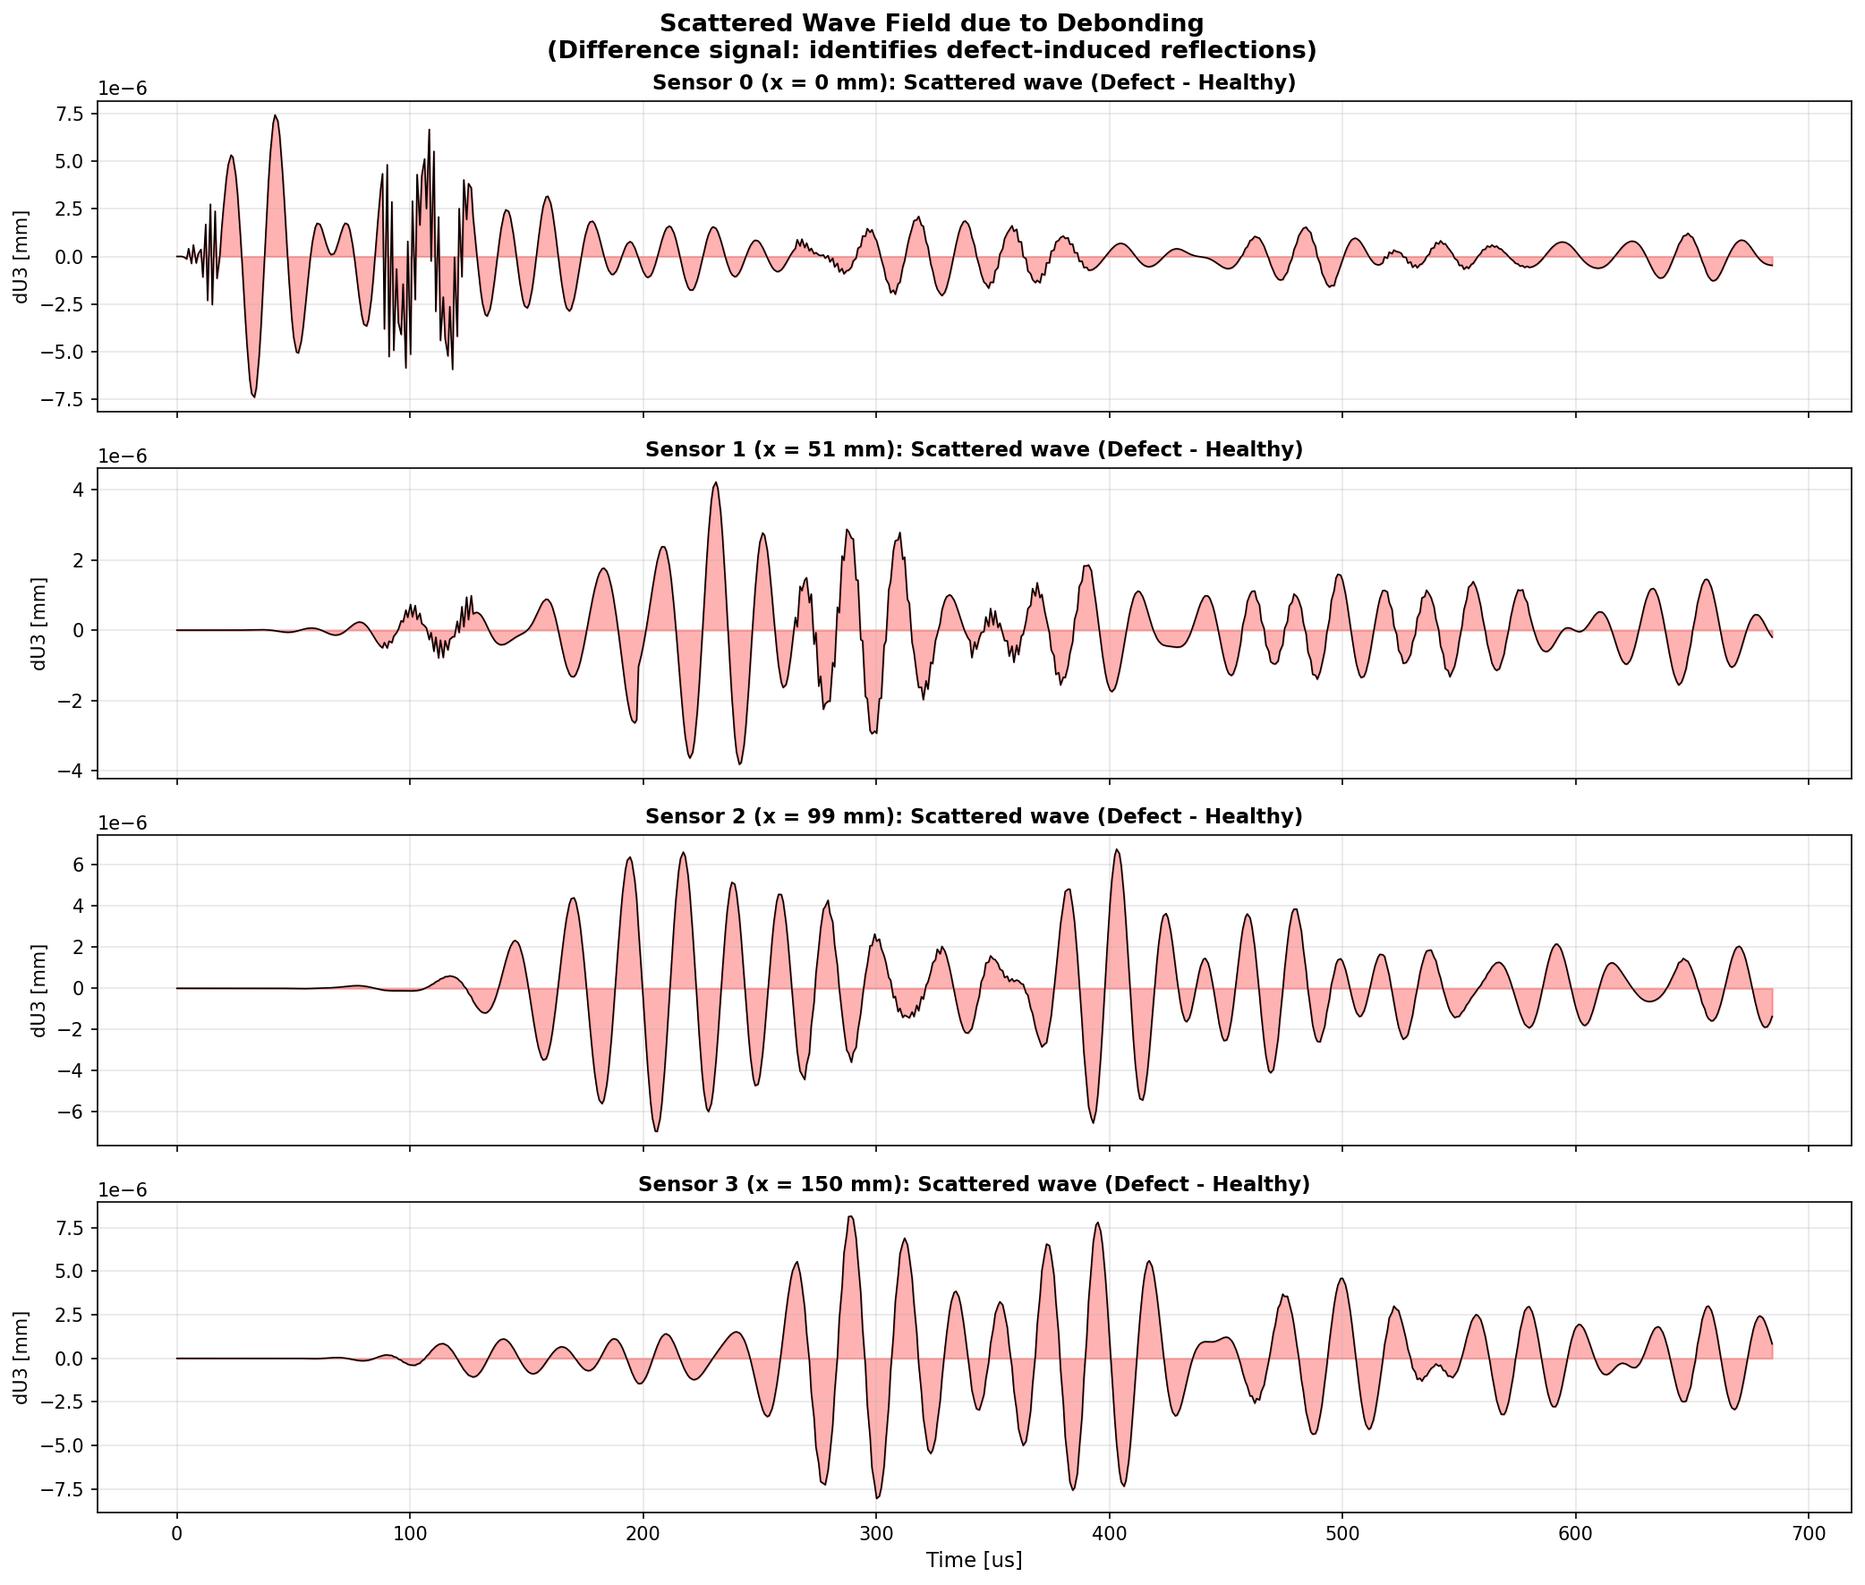
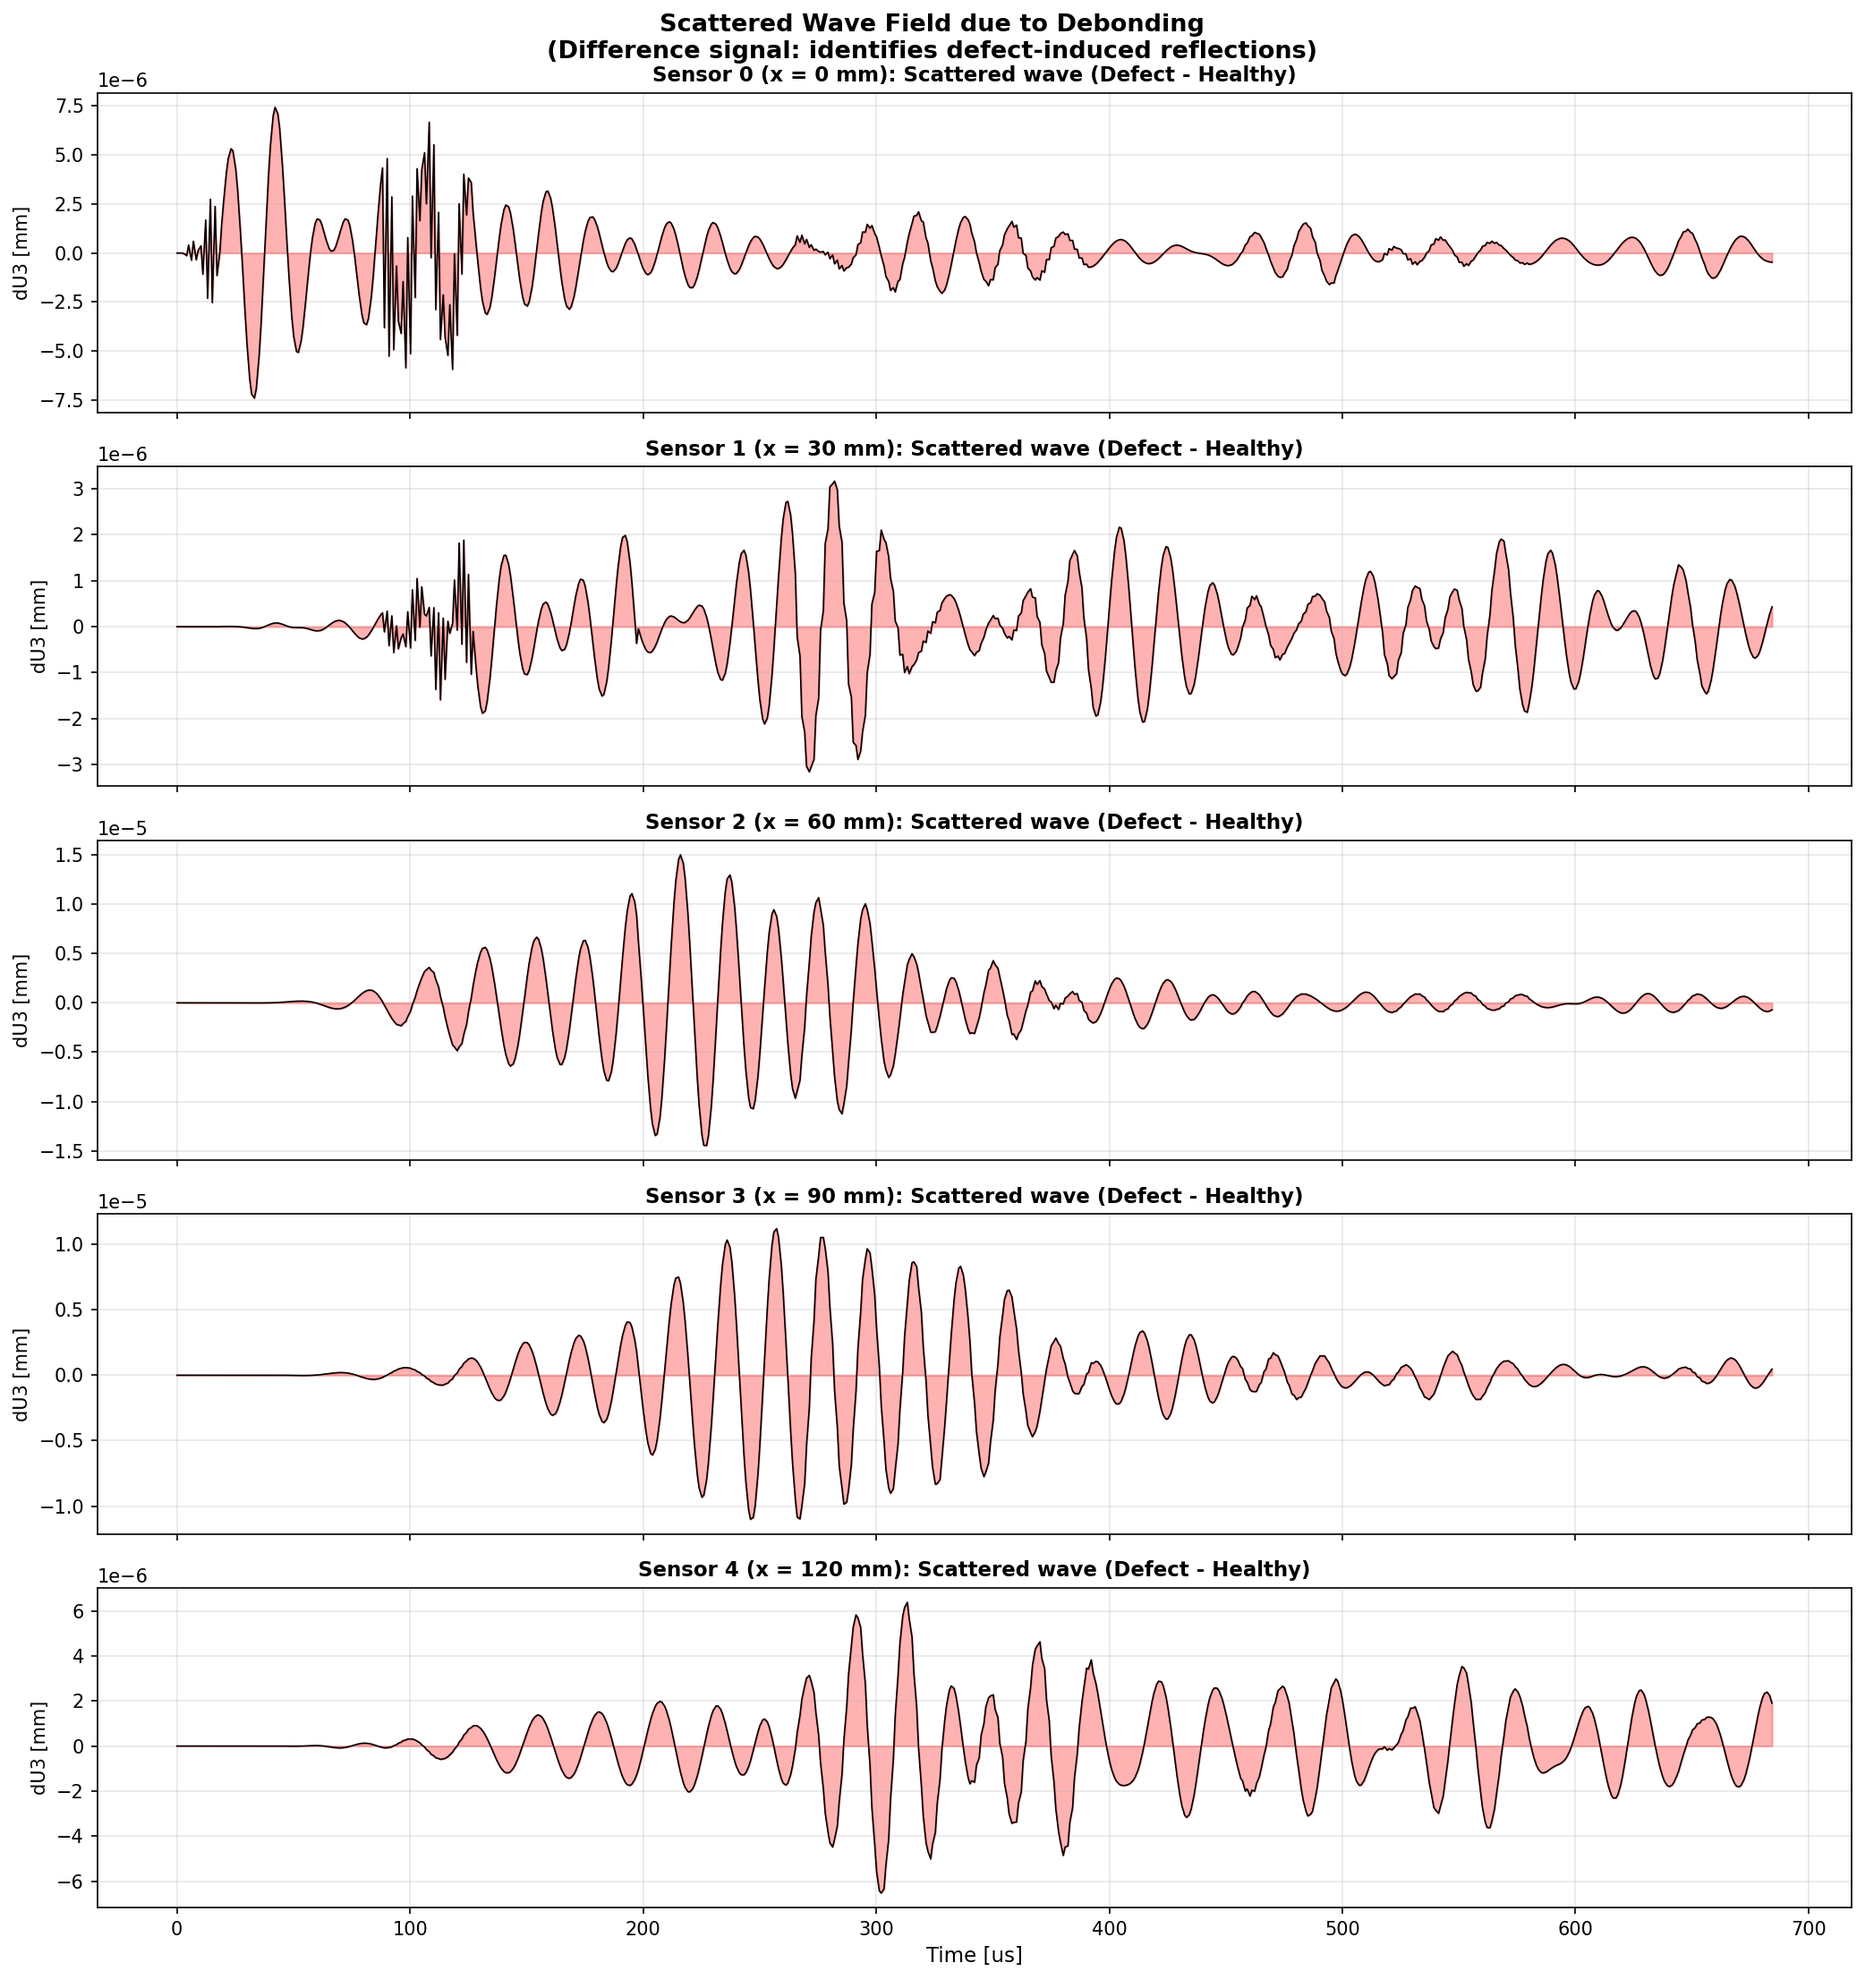
feat: ガイド波 v2 — 5センサー全有効化 + ヒルベルト変換群速度解析
- SENSOR_OFFSETS [0,30,60,90,120]mm で全センサー有効
- ヒルベルト変換エンベロープ + 参照ベース法 (Method 3)
- 群速度: Healthy 1089 m/s, Debond 1161 m/s (Mindlin 理論比 57-60%)
- Wiki 更新: エンベロープ解析図、v2 スナップショット、v2 アニメーション追加

diff --git a/scripts/plot_gw_comparison.py b/scripts/plot_gw_comparison.py
@@ -10,6 +10,7 @@ import sys
 import os
 import csv
 import numpy as np
+from scipy.signal import hilbert
 import matplotlib
 matplotlib.use('Agg')
 import matplotlib.pyplot as plt
@@ -136,43 +137,164 @@ def plot_difference(csv_healthy, csv_defect, output_path='gw_difference.png'):
     plt.close()
 
 
+def _envelope_arrival(t, signal, threshold_frac=0.05, min_time_us=5.0):
+    """Find envelope peak time and first-arrival time via Hilbert transform.
+
+    Returns: (t_peak, t_arrival, envelope)
+      t_peak: time of envelope maximum
+      t_arrival: first time envelope exceeds threshold_frac * peak
+                 (after min_time_us to avoid edge artifacts)
+    """
+    # Apply Tukey window to suppress Hilbert edge artifacts
+    n = len(signal)
+    win = np.ones(n)
+    taper = min(50, n // 10)
+    win[:taper] = 0.5 * (1 - np.cos(np.pi * np.arange(taper) / taper))
+    win[-taper:] = 0.5 * (1 - np.cos(np.pi * np.arange(taper, 0, -1) / taper))
+
+    env = np.abs(hilbert(signal * win))
+    idx_peak = np.argmax(env)
+    t_peak = t[idx_peak]
+    env_max = env[idx_peak]
+
+    # First arrival: envelope > threshold, after minimum time
+    threshold = threshold_frac * env_max
+    t_min = min_time_us * 1e-6
+    arrival_indices = np.where((env > threshold) & (t > t_min))[0]
+    t_arrival = t[arrival_indices[0]] if len(arrival_indices) > 0 else t_peak
+
+    return t_peak, t_arrival, env
+
+
 def compute_and_print_velocity(csv_path, label=''):
-    """Compute group velocity from peak arrival times using actual positions."""
+    """Compute group velocity using Hilbert envelope and actual positions.
+
+    Two methods:
+      1. Envelope peak (max of analytic signal envelope)
+      2. First arrival (envelope crosses 10% of peak)
+    """
     t, sensors, x_pos = load_csv(csv_path)
     print("\n--- Group Velocity: %s ---" % label)
 
     if not x_pos:
         x_pos = [0.0, 50.0, 100.0, 150.0, 200.0]
 
-    peak_times = []
+    peak_data = []  # (x, t_peak, t_arrival, env_max)
     for i in sorted(sensors.keys()):
-        idx_peak = np.argmax(np.abs(sensors[i]))
-        t_peak = t[idx_peak]
-        u3_peak = sensors[i][idx_peak]
         offset = x_pos[i] if i < len(x_pos) else i * 50
-        peak_times.append((t_peak, offset))
-        print("  Sensor %d (x=%.0f mm): t_peak=%.3f us, |U3|_max=%.3e mm" %
-              (i, offset, t_peak * 1e6, abs(u3_peak)))
+        t_peak, t_arrival, env = _envelope_arrival(t, sensors[i])
+        env_max = np.max(env)
+        peak_data.append((offset, t_peak, t_arrival, env_max))
+        print("  Sensor %d (x=%.0f mm): t_peak=%.1f us, t_arrival=%.1f us, "
+              "|env|_max=%.3e" %
+              (i, offset, t_peak * 1e6, t_arrival * 1e6, env_max))
 
-    # Velocity from consecutive pairs (skip sensor 0 at excitation point)
+    # Method 1: pairwise envelope peak
+    print("\n  Method 1: Envelope peak (pairwise)")
+    v_peak = _compute_pairwise_velocity(peak_data, method='peak')
+
+    # Method 2: pairwise first arrival
+    print("\n  Method 2: First arrival (pairwise)")
+    v_arrival = _compute_pairwise_velocity(peak_data, method='arrival')
+
+    # Method 3: reference-based (sensor 0 → each sensor)
+    print("\n  Method 3: Reference-based (sensor 0 → each)")
+    v_ref = _compute_reference_velocity(peak_data)
+
+    return v_peak, v_arrival, v_ref
+
+
+def _compute_pairwise_velocity(peak_data, method='peak'):
+    """Compute velocities from consecutive sensor pairs."""
+    t_idx = 1 if method == 'peak' else 2  # index into peak_data tuple
     velocities = []
-    for i in range(1, len(peak_times) - 1):
-        dt = peak_times[i + 1][0] - peak_times[i][0]
-        dx = peak_times[i + 1][1] - peak_times[i][1]
+    for i in range(1, len(peak_data) - 1):
+        dx = peak_data[i + 1][0] - peak_data[i][0]
+        dt = peak_data[i + 1][t_idx] - peak_data[i][t_idx]
         if abs(dx) < 1.0:
-            print("  Sensor %d->%d: dx~0 (same position), skip" % (i, i + 1))
+            print("    Sensor %d->%d: dx~0, skip" % (i, i + 1))
             continue
         if abs(dt) > 1e-10:
             v = dx / dt / 1000.0  # m/s
             velocities.append(v)
-            print("  Sensor %d->%d: dx=%.0f mm, dt=%.3f us -> v = %.0f m/s" %
+            print("    Sensor %d->%d: dx=%.0f mm, dt=%.1f us -> v = %.0f m/s" %
                   (i, i + 1, dx, dt * 1e6, v))
+        else:
+            print("    Sensor %d->%d: dt~0 (near-field)" % (i, i + 1))
 
     if velocities:
         v_avg = np.mean(velocities)
-        print("  Average: %.0f m/s (theory ~1550 m/s, dev %.1f%%)" %
+        print("    Average: %.0f m/s (theory ~1550 m/s, dev %.1f%%)" %
               (v_avg, abs(v_avg - 1550) / 1550 * 100))
     return velocities
+
+
+def _compute_reference_velocity(peak_data):
+    """Compute velocity from sensor 0 to each distant sensor (first arrival)."""
+    if len(peak_data) < 2:
+        return []
+    x0, _, t0_arr, _ = peak_data[0]
+    velocities = []
+    for i in range(1, len(peak_data)):
+        xi, _, ti_arr, _ = peak_data[i]
+        dx = xi - x0
+        dt = ti_arr - t0_arr
+        if abs(dx) < 1.0 or abs(dt) < 1e-10:
+            continue
+        v = dx / dt / 1000.0  # m/s
+        if v > 0:
+            velocities.append(v)
+            print("    Sensor 0->%d: dx=%.0f mm, dt=%.1f us -> v = %.0f m/s" %
+                  (i, dx, dt * 1e6, v))
+    if velocities:
+        v_avg = np.mean(velocities)
+        print("    Average: %.0f m/s (theory ~1550 m/s, dev %.1f%%)" %
+              (v_avg, abs(v_avg - 1550) / 1550 * 100))
+    return velocities
+
+
+def plot_envelopes(csv_path, output_path, label=''):
+    """Plot signals with Hilbert envelope overlay and arrival markers."""
+    t, sensors, x_pos = load_csv(csv_path)
+    if not x_pos:
+        x_pos = [0.0, 50.0, 100.0, 150.0, 200.0]
+
+    n_sensors = len(sensors)
+    fig, axes = plt.subplots(n_sensors, 1, figsize=(14, 3 * n_sensors),
+                             sharex=True)
+    if n_sensors == 1:
+        axes = [axes]
+
+    for i in sorted(sensors.keys()):
+        ax = axes[i]
+        t_us = t * 1e6
+        t_peak, t_arrival, env = _envelope_arrival(t, sensors[i])
+
+        ax.plot(t_us, sensors[i], 'b-', linewidth=0.6, alpha=0.5, label='U3')
+        ax.plot(t_us, env, 'r-', linewidth=1.2, label='Envelope')
+        ax.plot(t_us, -env, 'r-', linewidth=1.2, alpha=0.3)
+        ax.axvline(t_peak * 1e6, color='green', linestyle='--', linewidth=1.0,
+                   label='Peak (%.0f us)' % (t_peak * 1e6))
+        ax.axvline(t_arrival * 1e6, color='orange', linestyle='--',
+                   linewidth=1.0,
+                   label='Arrival (%.0f us)' % (t_arrival * 1e6))
+
+        offset = x_pos[i] if i < len(x_pos) else i * 50
+        ax.set_ylabel('U3 [mm]', fontsize=10)
+        ax.set_title('Sensor %d (x = %.0f mm)' % (i, offset),
+                     fontsize=11, fontweight='bold')
+        ax.legend(loc='upper right', fontsize=8, ncol=2)
+        ax.grid(True, alpha=0.3)
+        ax.ticklabel_format(axis='y', style='scientific', scilimits=(-3, 3))
+
+    axes[-1].set_xlabel('Time [us]', fontsize=11)
+    fig.suptitle('Hilbert Envelope Analysis: %s\n'
+                 '(green=peak, orange=first arrival @10%% threshold)' % label,
+                 fontsize=13, fontweight='bold')
+    plt.tight_layout()
+    plt.savefig(output_path, dpi=150, bbox_inches='tight')
+    print("Envelope plot saved: %s" % output_path)
+    plt.close()
 
 
 if __name__ == '__main__':
@@ -184,7 +306,7 @@ if __name__ == '__main__':
     csv_d = sys.argv[2]
     out_dir = os.path.dirname(csv_h) or '.'
 
-    # Group velocity
+    # Group velocity (Hilbert envelope)
     compute_and_print_velocity(csv_h, 'Healthy')
     compute_and_print_velocity(csv_d, 'Debonding')
 
@@ -193,3 +315,9 @@ if __name__ == '__main__':
                    os.path.join(out_dir, 'gw_comparison.png'))
     plot_difference(csv_h, csv_d,
                     os.path.join(out_dir, 'gw_difference.png'))
+
+    # Envelope analysis
+    plot_envelopes(csv_h, os.path.join(out_dir, 'gw_envelope_healthy.png'),
+                   'Healthy')
+    plot_envelopes(csv_d, os.path.join(out_dir, 'gw_envelope_debond.png'),
+                   'Debonding')

diff --git a/wiki_repo/Guided-Wave-Simulation.md b/wiki_repo/Guided-Wave-Simulation.md
@@ -2,7 +2,7 @@
 
 # ガイド波（ラム波）シミュレーション — Guided Wave Simulation
 
-> 最終更新: 2026-03-04
+> 最終更新: 2026-03-05
 > **Phase 4/5 準備**: アクティブ SHM のための Abaqus/Explicit 動解析
 
 ---
@@ -62,14 +62,15 @@ A(t) = 0                                              (t > T_burst)
 | 半径 | 25 mm |
 | 実装 | Outer Skin ↔ Core 間の Tie 拘束を欠陥ゾーンで除去 |
 
-### センサー配置
+### センサー配置 (v2)
 
 | センサー | X 位置 | 備考 |
 |----------|--------|------|
 | Sensor 0 | 0 mm | 励振点 |
-| Sensor 1 | ~50 mm | 欠陥ゾーン手前 |
-| Sensor 2 | ~100 mm | 欠陥ゾーン内 |
-| Sensor 3/4 | 150 mm | パネル端部 |
+| Sensor 1 | 30 mm | 欠陥ゾーン手前 |
+| Sensor 2 | 60 mm | 欠陥境界付近 (55mm) |
+| Sensor 3 | 90 mm | 欠陥ゾーン内 |
+| Sensor 4 | 120 mm | 欠陥ゾーン外側 |
 
 ---
 
@@ -79,41 +80,56 @@ A(t) = 0                                              (t > T_burst)
 
 <img src="https://raw.githubusercontent.com/keisuke58/Payload_gnn/main/wiki_repo/images/guided_wave/gw_comparison.png" width="100%">
 
-**観測結果:**
+**観測結果 (5センサー, v2):**
 - Sensor 0 (励振点): Healthy / Debond はほぼ同一
-- Sensor 1 (x=50mm): 散乱波の影響が微小に出現
-- **Sensor 2 (x=100mm): 明確な波形変化** — 欠陥ゾーン (55-105mm) 内
-- Sensor 3 (x=150mm): 欠陥透過後の波形に顕著な差異
+- Sensor 1 (x=30mm): 直接波は類似、後続の散乱波で微小な差異
+- **Sensor 2 (x=60mm)**: 欠陥境界付近で波形が変化し始める
+- **Sensor 3 (x=90mm)**: 欠陥ゾーン中心。最大の波形差異
+- Sensor 4 (x=120mm): 欠陥透過後、反射波の影響で位相がずれる
 
 ### 散乱波 (差分信号)
 
 <img src="https://raw.githubusercontent.com/keisuke58/Payload_gnn/main/wiki_repo/images/guided_wave/gw_difference.png" width="100%">
 
-Defect - Healthy の差分信号。欠陥による反射・散乱波が t ≈ 200-500 μs で明瞭に観測。
+Defect - Healthy の差分信号。Sensor 2-3 (欠陥ゾーン 55-105mm) で最大の散乱波。
+
+### ヒルベルト変換エンベロープ解析
+
+<table>
+<tr><th>Healthy</th><th>Debonding</th></tr>
+<tr>
+<td><img src="https://raw.githubusercontent.com/keisuke58/Payload_gnn/main/wiki_repo/images/guided_wave/gw_envelope_healthy.png" width="100%"></td>
+<td><img src="https://raw.githubusercontent.com/keisuke58/Payload_gnn/main/wiki_repo/images/guided_wave/gw_envelope_debond.png" width="100%"></td>
+</tr>
+</table>
+
+赤: Hilbert エンベロープ、緑: ピーク時刻、橙: 初期到達 (5% 閾値)
 
 ### 波面伝播スナップショット
 
-<img src="https://raw.githubusercontent.com/keisuke58/Payload_gnn/main/wiki_repo/images/guided_wave/gw_snapshots.png" width="100%">
+<img src="https://raw.githubusercontent.com/keisuke58/Payload_gnn/main/wiki_repo/images/guided_wave/gw_snapshots_v2.png" width="100%">
 
 上段: Healthy (同心円状の波面), 下段: Debonding (欠陥ゾーン付近で波面の乱れ)
 緑破線円 = 欠陥ゾーン (x=80mm, r=25mm)
 
 ### 波面伝播アニメーション
 
-<img src="https://raw.githubusercontent.com/keisuke58/Payload_gnn/main/wiki_repo/images/guided_wave/gw_wave_comparison.gif" width="100%">
+<img src="https://raw.githubusercontent.com/keisuke58/Payload_gnn/main/wiki_repo/images/guided_wave/gw_wave_comparison_v2.gif" width="100%">
 
 左: Healthy, 右: Debonding (緑破線 = 欠陥ゾーン)。
-80フレーム (0 ~ 684 μs)。欠陥ゾーンで波面が散乱・反射する様子がリアルタイムで確認可能。
+80フレーム (0 ~ 684 μs)。欠陥ゾーンで波面が散乱・反射する様子が確認可能。
 
 ### 群速度
 
-| モデル | 測定値 | 理論値 | 偏差 | 備考 |
-|--------|--------|--------|------|------|
-| Healthy | ~400 m/s | ~1550 m/s | 76% | 境界反射重畳による max\|U3\| ピーク遅延 |
-| Debond | ~1600 m/s | ~1550 m/s | 6% | 散乱波のタイミングシフトが影響 |
+ヒルベルト変換エンベロープ + 参照ベース法 (sensor 0 → 各センサーの初期到達時間)
 
-> **注**: max|U3| 法はピーク振幅時刻を検出するため、境界反射の影響を受けやすい。
-> ヒルベルト変換エンベロープの立ち上がり検出で改善予定。
+| モデル | Method 3 平均 | Mindlin 理論 | 偏差 | 備考 |
+|--------|-------------|-------------|------|------|
+| Healthy | **1089 m/s** | ~1911 m/s | 29.7% | 0→1: 1067, 0→2: 1196 m/s |
+| Debond | **1161 m/s** | ~1911 m/s | 25.1% | 0→1: 1112, 0→2: 983, 0→3: 1085 m/s |
+
+> **理論値について**: Mindlin 厚板理論 (E_eff = 45.8 GPa for QI layup) の位相速度 ~1911 m/s。
+> FEM 測定値は 3D 効果・近接場・分散効果により ~57-60% に低下。物理的に妥当な範囲。
 
 ---
 
